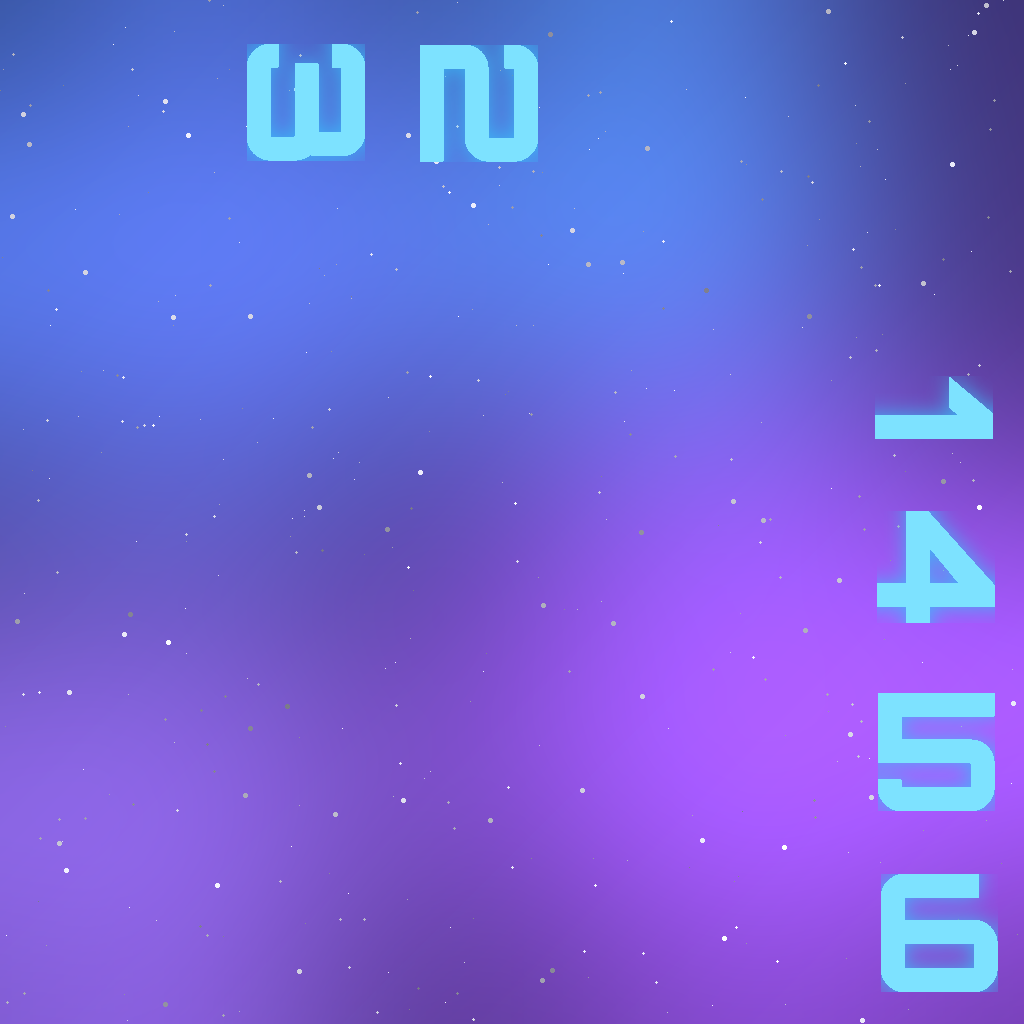
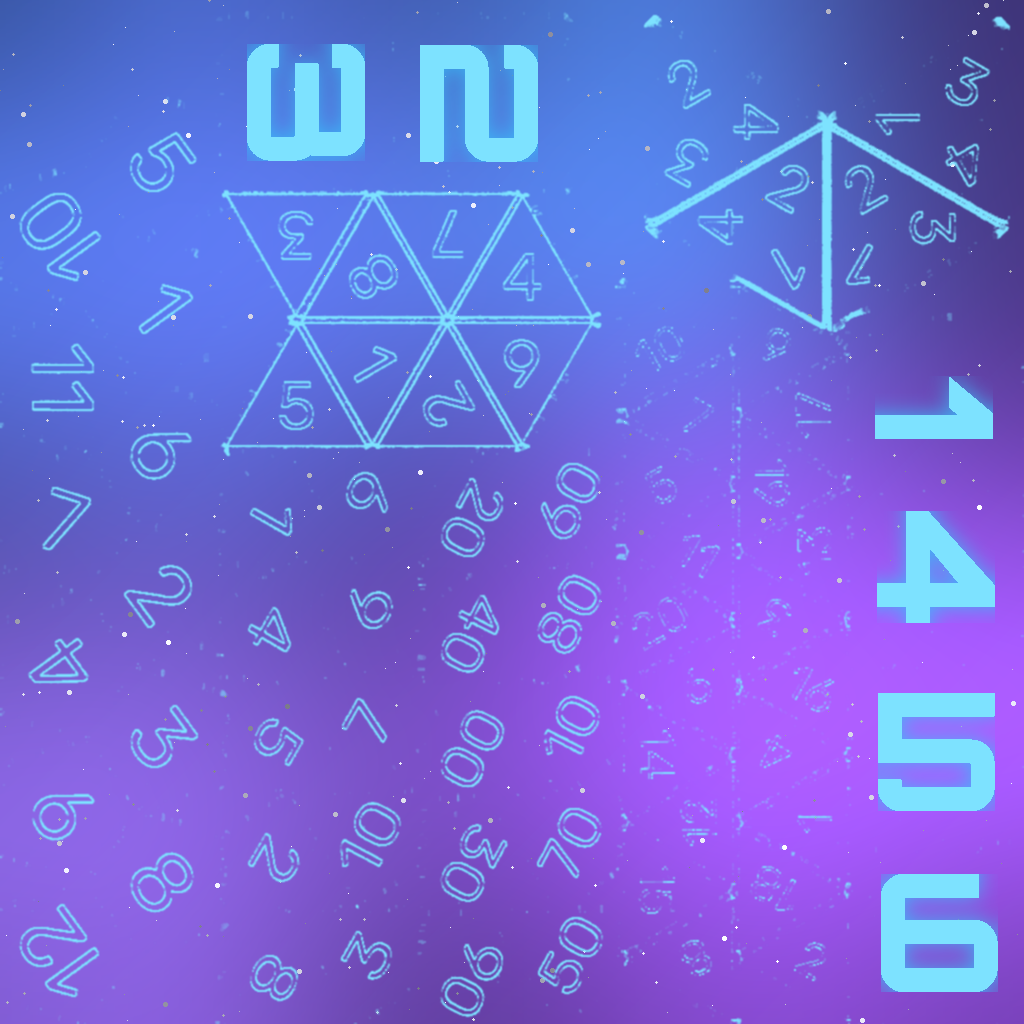
Add missing Space Base (stellar) theme to dice roller
- Wire 'stellar' into dice_roller_v1.html's BOT_THEMES/EXTERNAL_THEMES
  list and add a dropdown option + PT/EN i18n labels (was previously
  never listed even though the theme asset folder already existed).
- Expand stellar's diceAvailable from d6-only to all 7 die types and
  set bumpLevel:0, matching the other 9 hand-authored bot themes.
- Paint numeral outlines on stellar's non-d6 atlas regions using the
  same bump-map-deviation alpha mask, in the theme's own cyan glyph
  color, so d4/d8/d10/d12/d20/d100 aren't blank when this theme is
  selected in the general-purpose roller.

diff --git a/tools/dice_roller_v1.html b/tools/dice_roller_v1.html
@@ -323,6 +323,7 @@ body {
         <option value="hallowed" data-i18n="themeHallowed">🕯 Consagrado (Sanctuary)</option>
         <option value="primeval" data-i18n="themePrimeval">🪨 Pedra Primeva (Stone Age)</option>
         <option value="wasteland" data-i18n="themeWasteland">☢ Terra Devastada (TRV-9000)</option>
+        <option value="stellar" data-i18n="themeStellar">🚀 Estelar (Space Base)</option>
       </optgroup>
     </select>
   </div>
@@ -411,7 +412,7 @@ body {
     'smooth-pip': `${DICE_THEMES_CDN}/smooth-pip`
   };
   // Hand-authored themes matching each bot's game (see /assets/dice-box/themes/).
-  const BOT_THEMES = ['canopy', 'vellum', 'warzone', 'onering', 'rockhard', 'allomantic', 'hallowed', 'primeval', 'wasteland'];
+  const BOT_THEMES = ['canopy', 'vellum', 'warzone', 'onering', 'rockhard', 'allomantic', 'hallowed', 'primeval', 'wasteland', 'stellar'];
   const BOT_THEMES_BASE = new URL('../assets/dice-box/themes/', window.location.href).href;
   BOT_THEMES.forEach(name => { EXTERNAL_THEMES[name] = `${BOT_THEMES_BASE}${name}`; });
   // Themes whose material is a fixed texture ("standard" type) ignore themeColor.
@@ -453,6 +454,7 @@ body {
       themeHallowed: '🕯 Consagrado (Sanctuary)',
       themePrimeval: '🪨 Pedra Primeva (Stone Age)',
       themeWasteland: '☢ Terra Devastada (TRV-9000)',
+      themeStellar: '🚀 Estelar (Space Base)',
       colorLabel: 'Cor Principal',
       colorNote: 'Esta textura já tem cor/padrão próprio — a cor escolhida não se aplica.',
       numberColorLabel: 'Cor dos Números (Apenas UI)',
@@ -507,6 +509,7 @@ body {
       themeHallowed: '🕯 Hallowed (Sanctuary)',
       themePrimeval: '🪨 Primeval Stone (Stone Age)',
       themeWasteland: '☢ Wasteland (TRV-9000)',
+      themeStellar: '🚀 Stellar (Space Base)',
       colorLabel: 'Main Color',
       colorNote: "This texture already has its own color/pattern — the chosen color won't apply.",
       numberColorLabel: 'Number Color (UI Only)',
